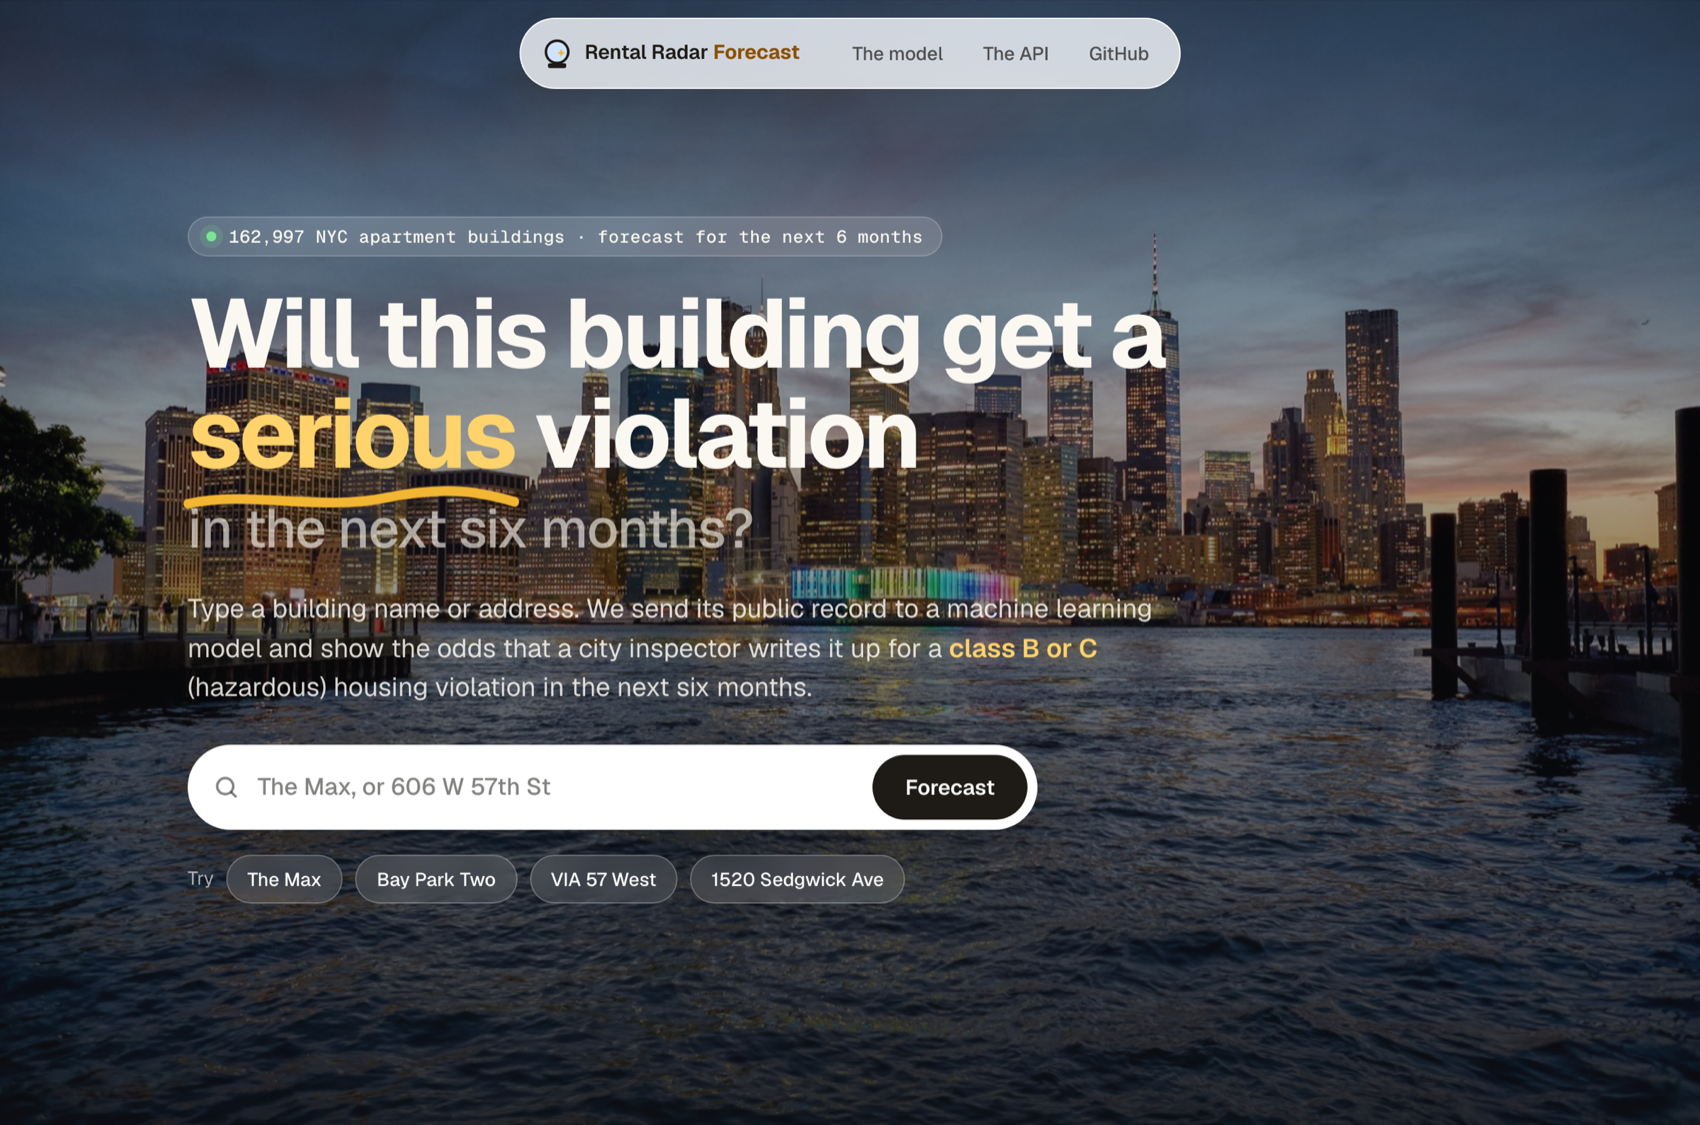
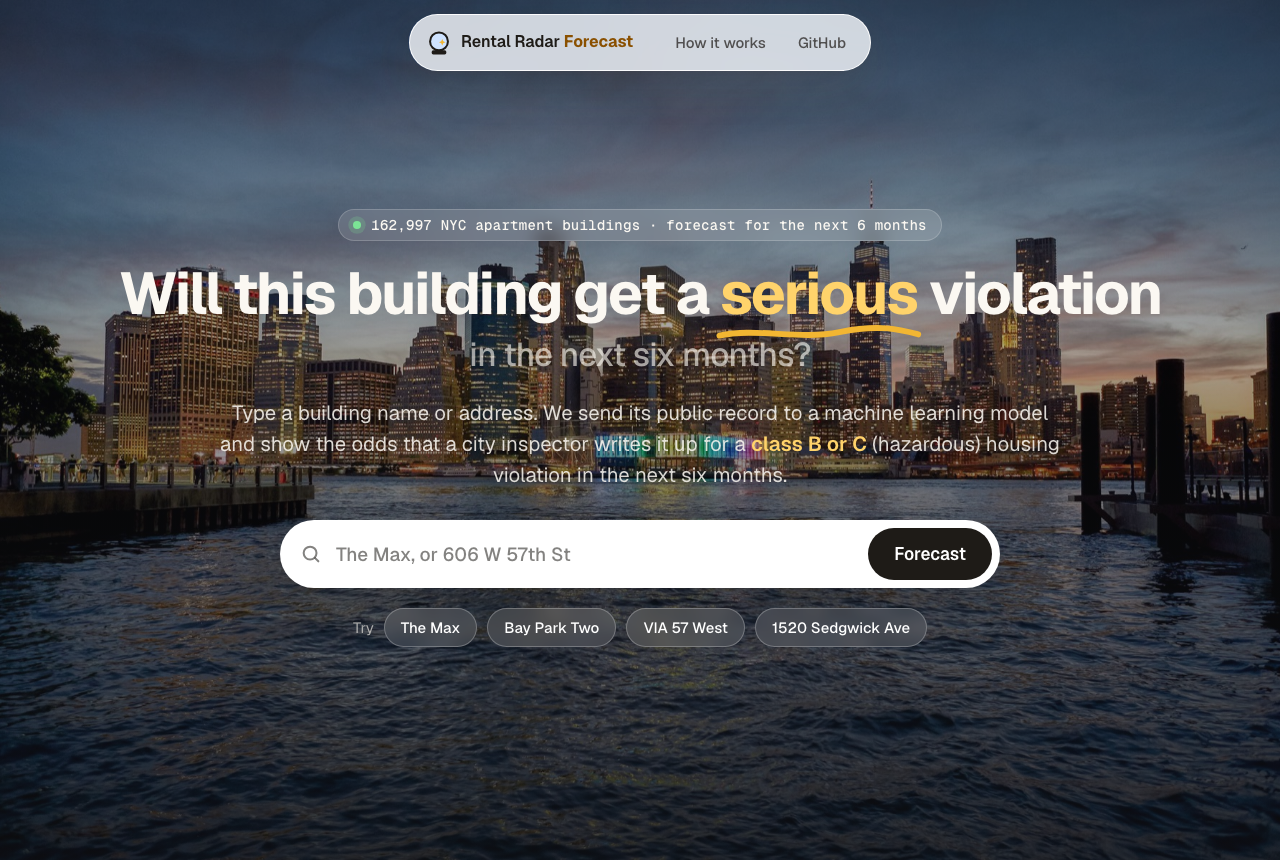
README and front end: final check after PRs #11 and #12
- README: 41 tests (was 40), PR history and checklist list #11 and #12 and who opened each PR,
  screenshot captions name the two pages
- Screenshots retaken from the live Space: renter page, project page model results, project page form
- project.html: an empty count means 0 and an empty attribute gets the training median (matches src/features.py)
- Renter page: lookup button label in English only

diff --git a/frontend/app.js b/frontend/app.js
@@ -24,7 +24,7 @@
     if (!items.length) {
       // Nothing in our own records: offer the OpenStreetMap lookup, but only when the user asks for it.
       list.innerHTML = `<li class="empty"${note ? ' aria-disabled="true"' : ""}><span class="ad">${note ? esc(note) : `No NYC building with 3+ units matches “${esc(q)}”. Try the street address, or:`}</span>
-        ${note ? "" : `<button type="button" class="btn ghost small lookup" data-q="${esc(q)}">在网上查找这个楼名 / Look up this name online</button>`}</li>`;
+        ${note ? "" : `<button type="button" class="btn ghost small lookup" data-q="${esc(q)}">Look up this name online</button>`}</li>`;
     } else {
       list.innerHTML = items.map((b, i) => `<li role="option" id="opt${i}" data-i="${i}" aria-selected="false">
         <div><div class="nm">${esc(b.name ? b.name.split(" / ")[0] : title(b.address))}</div>

diff --git a/frontend/project.html b/frontend/project.html
@@ -77,7 +77,7 @@
   <section id="try" class="block" aria-labelledby="tryTitle">
     <p class="kicker">Try the API</p>
     <h2 id="tryTitle" class="h2">Describe a building, <span class="soft">send it to the deployed model</span></h2>
-    <p class="sub">Change any value and press <b>Predict</b>. The form sends JSON to <code>POST /predict</code> on Cloud Run and shows the answer. Empty fields are filled by the model with the training median. You can also start from a real building's record.</p>
+    <p class="sub">Change any value and press <b>Predict</b>. The form sends JSON to <code>POST /predict</code> on Cloud Run and shows the answer. An empty count means 0; an empty attribute (units, stories, year built) gets the training median. You can also start from a real building's record.</p>
 
     <div class="try2">
       <form class="card pform" id="pform" autocomplete="off">

diff --git a/README.md b/README.md
@@ -34,8 +34,8 @@ Every requirement of the assignment, with where to find it. All links point at t
 | Front end that calls the deployed API, interactive, hosted publicly | [`frontend/`](frontend), [§7](#7-front-end) | **https://huggingface.co/spaces/canyangxu077/rental-radar-forecast** — renter page (search → forecast card) and a project page with a form that sends your own input to `/predict` |
 | README sections | this file | overview and goals, dataset, model and evaluation, cloud services, setup, usage (train, build, test the API, deploy), links |
 | `requirements.txt` | [`requirements.txt`](requirements.txt) | pinned versions, Python 3.12 |
-| Tests | [`tests/`](tests) | 40 tests: config, leakage at the cutoff, GCS integrity, features, training end to end, API |
-| Branches and pull requests | [pull requests](https://github.com/canyangxu/rental-radar-ml/pulls?q=is%3Apr) | one branch and PR per part: skeleton → data → model → API → Docker/Cloud Run → front end → docs → fixes → deployment |
+| Tests | [`tests/`](tests) | 41 tests: config, leakage at the cutoff, GCS integrity, features, training end to end, API |
+| Branches and pull requests | [pull requests](https://github.com/canyangxu/rental-radar-ml/pulls?q=is%3Apr) | one branch and PR per part: skeleton → data → model → API → Docker/Cloud Run → front end → docs → fixes → deployment → search backup → two-page front end; both team members opened and merged PRs from their own accounts (#1–#10 Canyang Xu, #11–#12 Xianyu Wang) |
 | Ethics and limitations | [§9](#9-ethics-and-limitations) | label bias from complaint-driven inspections, neighborhood signal, size bias, error costs, drift |
 
 ---
@@ -208,7 +208,7 @@ Requirements: Python 3.12 and Docker. Cloud steps also need the [gcloud CLI](htt
 git clone https://github.com/canyangxu/rental-radar-ml.git && cd rental-radar-ml
 python3.12 -m venv .venv && source .venv/bin/activate
 pip install -r requirements.txt          # pinned versions
-pytest -q                                 # 40 tests; all but one run offline on synthetic data
+pytest -q                                 # 41 tests; all but one run offline on synthetic data
 ```
 
 Every parameter is in [`config.yaml`](config.yaml): data sources and dates, feature windows, target, split cutoffs, model hyperparameters, evaluation, MLflow and serving. Three environment variables override per-machine values:
@@ -332,7 +332,7 @@ The API base URL is set in `frontend/config.js` (`?api=` overrides it). Run it l
 python -m http.server 5173 --directory frontend     # with the API on :8080
 ```
 
-| Search | Model section | Live request |
+| Renter page: search | Project page: model results | Project page: try the API |
 |---|---|---|
 | ![](docs/img/frontend-hero.png) | ![](docs/img/frontend-model.png) | ![](docs/img/frontend-api.png) |
 
@@ -354,12 +354,12 @@ src/
 api/                     FastAPI app (main.py) and request/response schemas (schemas.py)
 frontend/                web front end (Hugging Face Space): index.html for renters, project.html for graders
 scripts/                 setup_gcs.sh, deploy_cloudrun.sh, deploy_frontend_hf.sh, smoke_test.sh, entrypoint.sh
-tests/                   40 tests: config, leakage at the cutoff, GCS integrity, features, training end to end, API
+tests/                   41 tests: config, leakage at the cutoff, GCS integrity, features, training end to end, API
 reports/                 test metrics (metrics.json) and figures from the latest run
 docs/img/                screenshots
 ```
 
-Development history: each part landed through its own branch and [pull request](https://github.com/canyangxu/rental-radar-ml/pulls?q=is%3Apr): skeleton (#1) → data and GCS (#2) → model and MLflow (#3) → API (#4) → Docker and Cloud Run (#5) → front end (#6) → README (#7) → code-review fixes (#8) → live deployment links (#9) → front-end polish (#10).
+Development history: each part landed through its own branch and [pull request](https://github.com/canyangxu/rental-radar-ml/pulls?q=is%3Apr): skeleton (#1) → data and GCS (#2) → model and MLflow (#3) → API (#4) → Docker and Cloud Run (#5) → front end (#6) → README (#7) → code-review fixes (#8) → live deployment links (#9) → front-end polish (#10) → search backup: hyphen-free addresses and OpenStreetMap name lookup (#11) → renter page and project page (#12). PRs #1–#10 by Canyang Xu ([@canyangxu](https://github.com/canyangxu)); #11 and #12 by Xianyu Wang ([@sienna-wangxy](https://github.com/sienna-wangxy)).
 
 ## 9. Ethics and limitations
 
